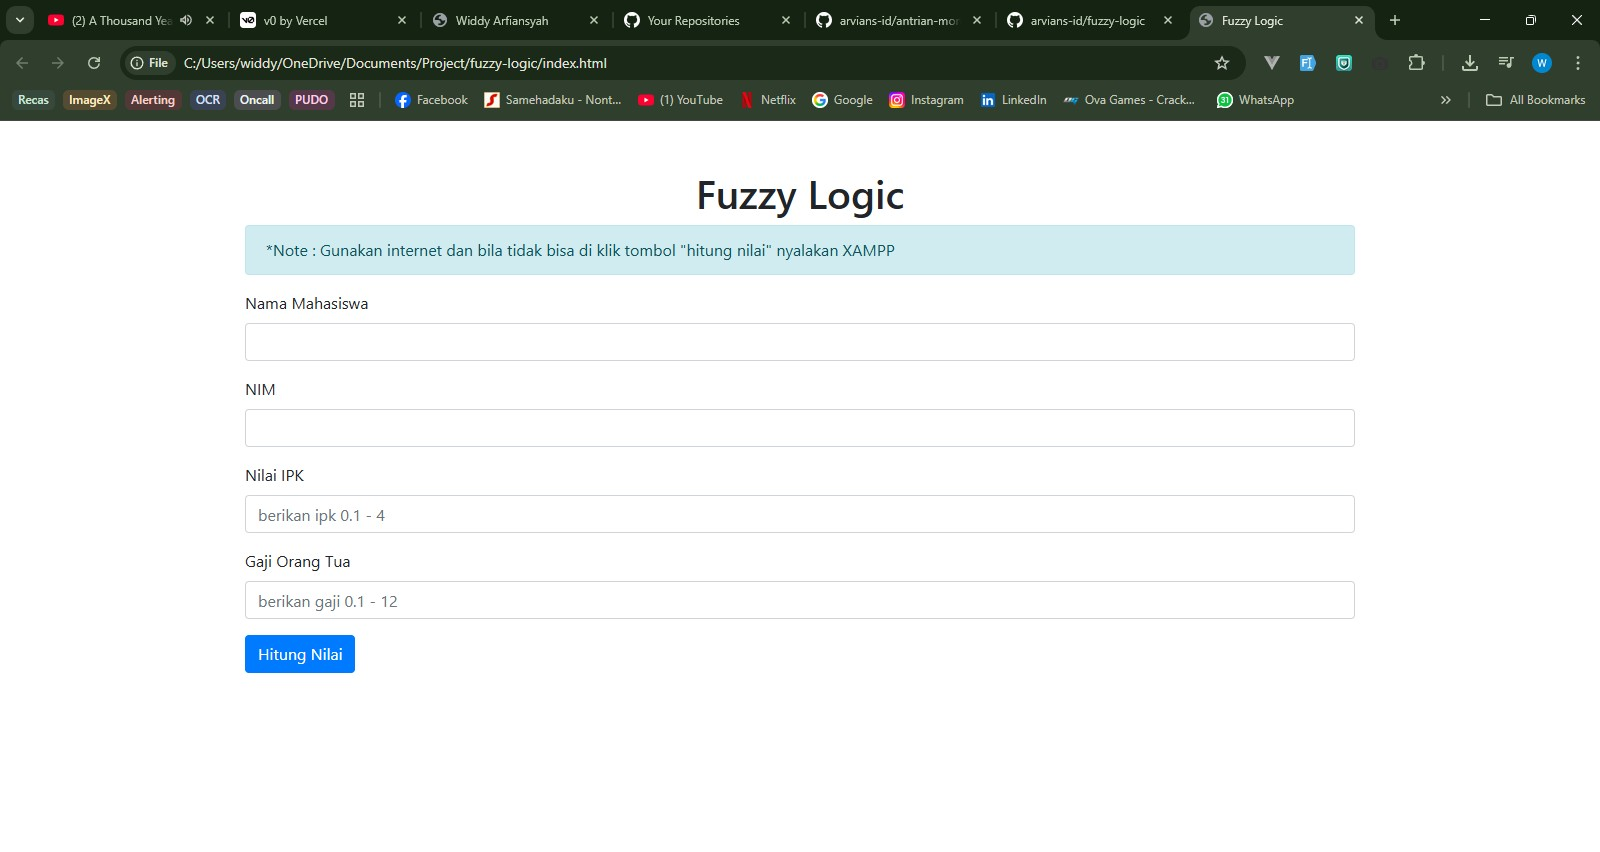
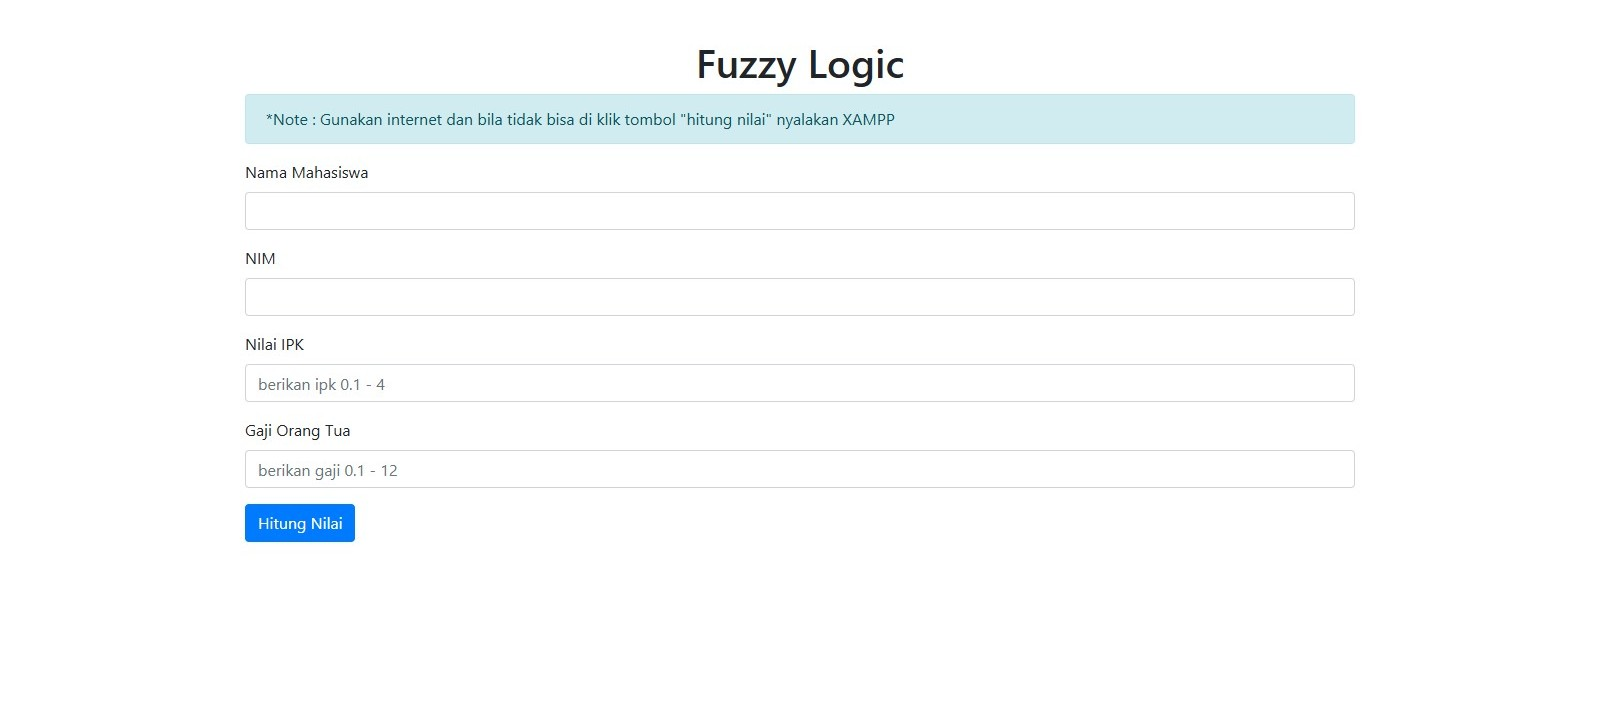
modify unrecognize interface

diff --git a/app/page.tsx b/app/page.tsx
@@ -363,7 +363,7 @@ export default function Portfolio() {
                 <span className="text-sm text-gray-500 mt-2">(he/him)</span>
               </div>
               <div className="flex items-center gap-4">
-                <p className="text-gray-400">Sofware Engineer</p>
+                <p className="text-gray-400">Software Engineer</p>
                 <div className="flex items-center gap-1 text-gray-400">
                   <MapPin className="w-4 h-4" />
                   <span className="text-sm">South Jakarta, ID</span>
@@ -558,7 +558,7 @@ export default function Portfolio() {
             <Card className="bg-gray-900 border-gray-800">
               <CardHeader>
                 <CardTitle className="text-red-400">Technical Skills</CardTitle>
-                <CardDescription className="text-white">Technologies and tools I work with</CardDescription>
+                <CardDescription className="text-white">Technologies and tools I work with, along with some experiments I've explored</CardDescription>
               </CardHeader>
               <CardContent>
                 <div className="space-y-6">